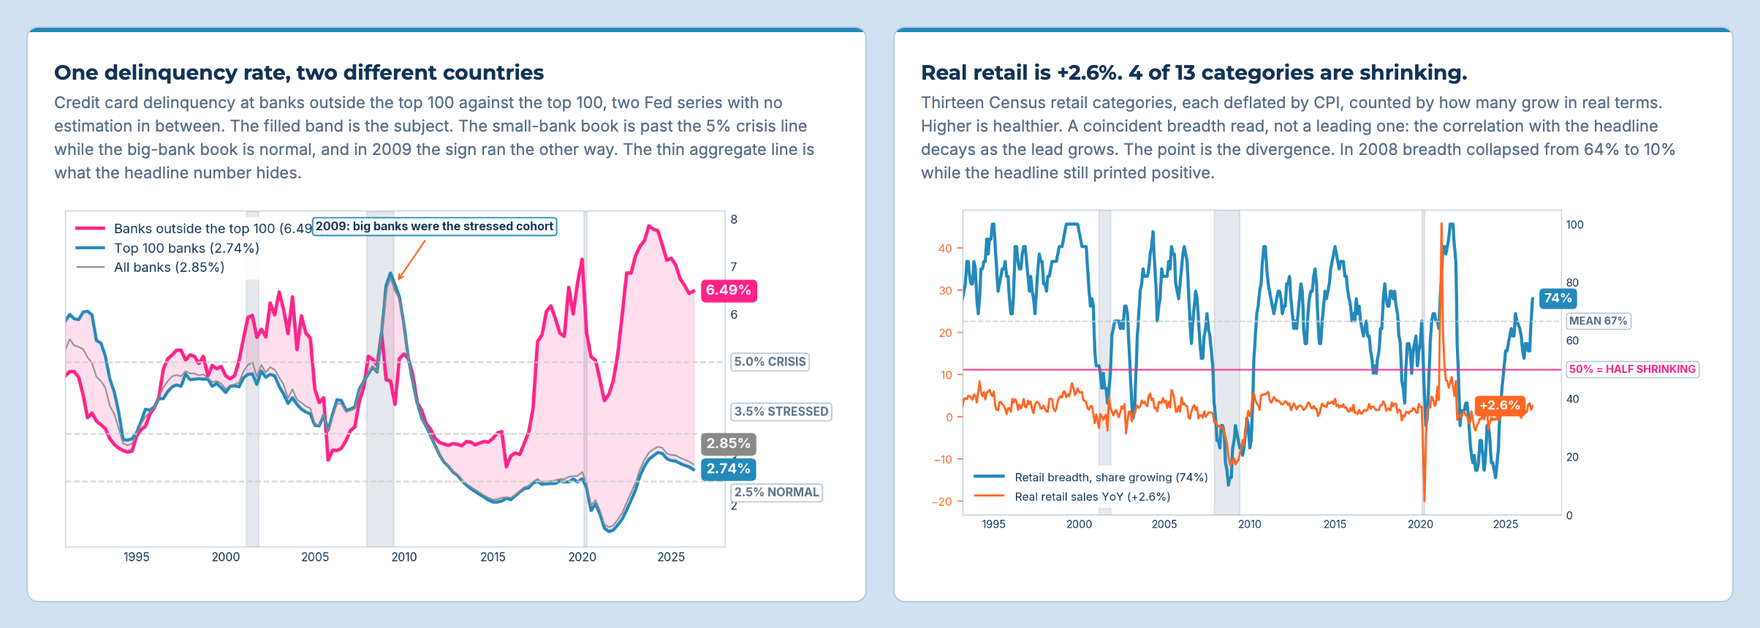
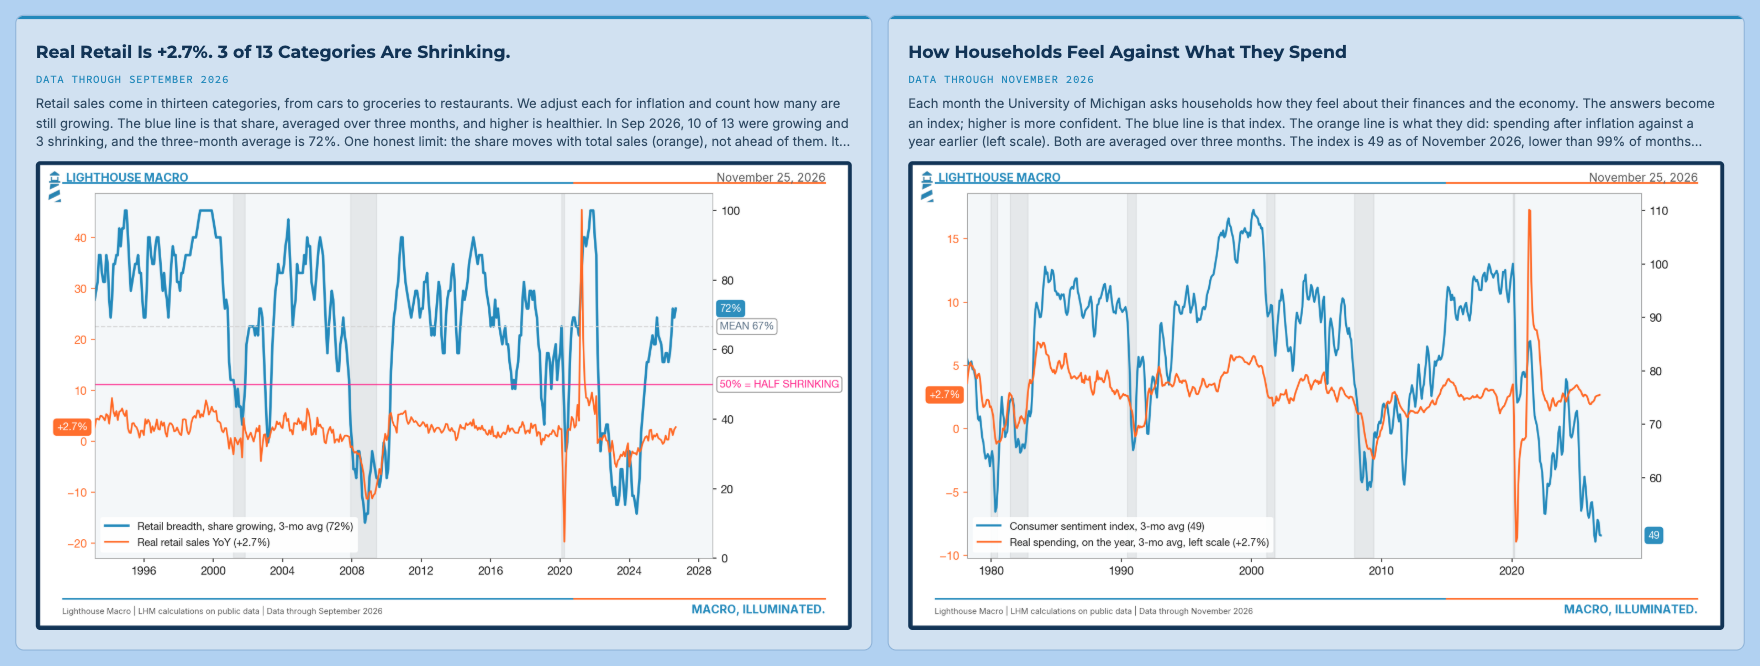
Site: Methodology back in the top menu; 12 pillars / 120+ indicators / 4,400+ data series up top on Home and Start Here; Pharos screenshots refreshed to the Nov 25 boards; title, prices (llms.txt), footer and palette fixes (Bob 11/25)
Claude-Session: https://claude.ai/code/session_01BNREp4dtPKRW1vyNJJuc1F

diff --git a/start-here.html b/start-here.html
@@ -24,7 +24,7 @@
     <script type="application/ld+json">
     {"@context":"https://schema.org","@graph":[
       {"@type":"Organization","@id":"https://lighthousemacro.com/#org","name":"Lighthouse Macro","url":"https://lighthousemacro.com","email":"advisory@lighthousemacro.com","description":"Macro and economic intelligence, built on framework and process.","slogan":"Macro, Illuminated.","logo":"https://lighthousemacro.com/assets/logo-navy-lightsky.png","sameAs":["https://x.com/LHMacro","https://research.lighthousemacro.com","https://pharos.lighthousemacro.com"],"founder":{"@id":"https://lighthousemacro.com/#bob"}},
-      {"@type":"Person","@id":"https://lighthousemacro.com/#bob","name":"Bob Sheehan","honorificSuffix":"CFA, CMT","jobTitle":"Founder & Macro Strategist","url":"https://lighthousemacro.com/#about","worksFor":{"@id":"https://lighthousemacro.com/#org"},"alumniOf":[{"@type":"Organization","name":"Bank of America Private Bank"},{"@type":"Organization","name":"Trahan Macro Research"},{"@type":"Organization","name":"Strom Capital"},{"@type":"Organization","name":"EquiLend"},{"@type":"CollegeOrUniversity","name":"Providence College"}],"hasCredential":[{"@type":"EducationalOccupationalCredential","credentialCategory":"Professional designation","name":"Chartered Financial Analyst (CFA)"},{"@type":"EducationalOccupationalCredential","credentialCategory":"Professional designation","name":"Chartered Market Technician (CMT)"}],"knowsAbout":["Macroeconomics","Business cycle analysis","Labor market flows","Inflation","Federal Reserve liquidity","Credit markets","Treasury market structure","Market breadth","Asset allocation"],"sameAs":["https://x.com/LHMacro","https://www.linkedin.com/in/boblhm","https://research.lighthousemacro.com"]},
+      {"@type":"Person","@id":"https://lighthousemacro.com/#bob","name":"Bob Sheehan","honorificSuffix":"CFA, CMT","jobTitle":"Founder, Chief Economist & Macro Strategist","url":"https://lighthousemacro.com/#about","worksFor":{"@id":"https://lighthousemacro.com/#org"},"alumniOf":[{"@type":"Organization","name":"Bank of America Private Bank"},{"@type":"Organization","name":"Trahan Macro Research"},{"@type":"Organization","name":"Strom Capital"},{"@type":"Organization","name":"EquiLend"},{"@type":"CollegeOrUniversity","name":"Providence College"}],"hasCredential":[{"@type":"EducationalOccupationalCredential","credentialCategory":"Professional designation","name":"Chartered Financial Analyst (CFA)"},{"@type":"EducationalOccupationalCredential","credentialCategory":"Professional designation","name":"Chartered Market Technician (CMT)"}],"knowsAbout":["Macroeconomics","Business cycle analysis","Labor market flows","Inflation","Federal Reserve liquidity","Credit markets","Treasury market structure","Market breadth","Asset allocation"],"sameAs":["https://x.com/LHMacro","https://www.linkedin.com/in/boblhm","https://research.lighthousemacro.com"]},
       {"@type":"WebSite","@id":"https://lighthousemacro.com/#site","url":"https://lighthousemacro.com","name":"Lighthouse Macro","publisher":{"@id":"https://lighthousemacro.com/#org"}}
     ]}
     </script>
@@ -80,19 +80,19 @@ section{padding:var(--s9) 0}
 .more{font-weight:600;color:var(--ocean);font-size:15px}.more:hover{color:var(--dusk)}
 [hidden]{display:none!important}
 /* legacy aliases so the generated Start Here page (which borrows this chrome) keeps rendering */
-:root{--line:rgba(35,137,187,.22);--ink-2:#2C3E50;--ink-3:#5B7189;--foam:#FFFFFF;--deep:#123456;--ice:#D1E1F1;--abyss:#0E2B47;--slate:#2A4A6A;--steel:#8FA8BF;--w:1180px}
+:root{--line:rgba(35,137,187,.22);--ink-2:#2C3E50;--ink-3:#5B7189;--foam:#FFFFFF;--deep:#123456;--ice:#D1E1F1;--abyss:#111823;--slate:#2A4A6A;--steel:#8FA8BF;--w:1180px}
 .accent{display:none}
 .hero .grid,.hero .glow,.dark .grid{display:none}
 
 /* ---------- nav ---------- */
 .nav{position:sticky;top:0;z-index:20;background:var(--navy)}
-.nav .wrap{display:flex;align-items:center;gap:var(--s6);height:68px}
+.nav .wrap{display:flex;align-items:center;gap:var(--s5);height:68px}
 .wm{display:flex;align-items:center;gap:12px;text-decoration:none;color:#fff;white-space:nowrap}
 .wm svg{height:34px;width:14px;color:var(--light-sky)}
 .wm span{font-family:var(--font-display);font-weight:800;font-size:18px;letter-spacing:.02em}
 .wm b{color:var(--light-sky);font-weight:800}
 .wm:hover{color:#fff}
-.nav nav{display:flex;gap:var(--s5);flex:1}
+.nav nav{display:flex;gap:var(--s4);flex:1}
 .nav nav a{color:#C9D8E6;text-decoration:none;font-size:14px;font-weight:500}.nav nav a:hover{color:#fff}
 .nav nav .btn{display:none}
 .nav .right{display:flex;align-items:center;gap:var(--s4);margin-left:auto}
@@ -100,8 +100,10 @@ section{padding:var(--s9) 0}
 .nav .btn{white-space:nowrap}
 .menu{display:none;align-items:center;gap:8px;margin-left:auto;background:transparent;border:1.5px solid rgba(137,204,255,.4);color:#fff;border-radius:var(--radius-hull);padding:8px 12px;font:600 13px var(--font-body);cursor:pointer}
 .menu svg{width:16px;height:16px;fill:none;stroke:currentColor;stroke-width:2;stroke-linecap:round}
-@media(max-width:1120px){.nav .nav-price{display:none}}
-@media(max-width:960px){
+/* seven menu links (Methodology added 11/25/2026): the inline menu fills the 1,180px row, so it folds into the Menu button below that,
+   and the header button drops its price while the inline menu shows (the hero button right below carries it) */
+@media(min-width:1181px),(max-width:1120px){.nav .nav-price{display:none}}
+@media(max-width:1180px){
   .nav .wrap{gap:var(--s4)}
   .nav nav{display:none;position:absolute;left:0;right:0;top:68px;flex-direction:column;gap:0;background:var(--navy);padding:4px var(--s6) var(--s5);border-bottom:1px solid var(--navy-line)}
   .nav.open nav{display:flex}
@@ -122,6 +124,9 @@ section{padding:var(--s9) 0}
 .hero .lead{color:#C9D8E6;margin:var(--s5) 0 var(--s6);position:relative}
 .hero .row{position:relative}
 .hero .fine{font-size:var(--fs-small);color:#8FA8BF;margin-top:var(--s5);position:relative;max-width:70ch}
+.hero .stats{position:relative;list-style:none;margin:0 0 var(--s6);padding:0;display:flex;flex-wrap:wrap;gap:var(--s3) var(--s6)}
+.hero .stats li{display:flex;align-items:baseline;gap:10px;padding-left:var(--s3);border-left:3px solid var(--dusk);font-family:var(--font-mono);font-size:12px;font-weight:500;letter-spacing:.12em;text-transform:uppercase;color:#C9D8E6;line-height:1.2}
+.hero .stats b{font-family:var(--font-display);font-size:30px;font-weight:800;letter-spacing:-.01em;color:var(--light-sky);text-transform:none}
 .hero .bar{position:absolute;left:0;right:0;bottom:0}
 
 /* ---------- press strip ---------- */
@@ -168,7 +173,7 @@ section{padding:var(--s9) 0}
 .tile .n{font-family:var(--font-mono);font-size:11px;color:#8FA8BF;letter-spacing:.1em}
 .tile .p{font-family:var(--font-display);font-weight:700;font-size:15px;color:#fff}
 .tile .s{font-family:var(--font-mono);font-size:10.5px;font-weight:600;letter-spacing:.1em;color:var(--st);text-transform:uppercase;margin-top:2px}
-.calm{--st:var(--light-sky)}.watch{--st:var(--sky)}.alert{--st:var(--dusk)}
+.calm{--st:var(--light-sky)}.watch{--st:var(--sky)}.alert{--st:var(--dusk)}.inband{--st:var(--light-sky)}.signal{--st:var(--dusk)}
 .legend{display:flex;gap:var(--s5);flex-wrap:wrap;margin-top:var(--s5);font-family:var(--font-mono);font-size:11.5px;color:#8FA8BF;align-items:center}
 .legend i{display:inline-block;width:14px;height:3px;margin-right:8px;vertical-align:middle}
 .legend a{color:var(--light-sky);margin-left:auto}.legend a:hover{color:#fff}
@@ -234,6 +239,7 @@ footer p{max-width:110ch;line-height:1.55;margin:0}
   :root{--fs-hero:42px;--fs-h2:30px}
   section{padding:var(--s8) 0}.wrap{padding:0 var(--s5)}
   .hero{padding:var(--s8) 0 calc(var(--s8) + 8px)}
+  .hero .stats{gap:var(--s3) var(--s5)}.hero .stats b{font-size:24px}.hero .stats li{font-size:11px;letter-spacing:.1em}
   .sil{height:380px;right:-6%}
   .board{padding:var(--s5)}
   .tiles{grid-template-columns:repeat(auto-fill,minmax(132px,1fr))}
@@ -244,6 +250,7 @@ footer p{max-width:110ch;line-height:1.55;margin:0}
 /* start-here: one reading column on Ice */
 .sh-hero{padding:72px 0 56px}
 .sh-hero h1{font-size:clamp(34px,5vw,54px);margin:14px 0 0}
+.sh-hero .stats{margin:24px 0 0}
 .sh{padding:56px 0 72px}
 .sh .col{max-width:760px}
 .sh p{font-size:17px;line-height:1.7;color:var(--ink);margin:0 0 20px}
@@ -268,7 +275,7 @@ footer p{max-width:110ch;line-height:1.55;margin:0}
 
 <header class="nav"><div class="wrap">
   <a class="wm" href="index.html" aria-label="Lighthouse Macro home"><svg class="mark" viewBox="590 288 416 1024" aria-hidden="true"><path d="M794 293L950 405V435H638V405Z"/><path d="M674 478H709V581H879V478H915V628H975V672H617V628H674Z"/><path d="M661 711H932L928 753L635 890Z"/><path d="M954 897L970 1051L596 1232L617 1064Z"/><path d="M989 1203L1001 1307H786Z"/></svg><span>LIGHTHOUSE <b>MACRO</b></span></a>
-  <nav id="site-nav" aria-label="Site"><a href="index.html#research">Research</a><a href="index.html#framework">Framework</a><a href="index.html#pharos">Pharos</a><a href="index.html#services">Services</a><a href="index.html#pricing">Pricing</a><a href="index.html#about">About</a><a class="signin-m" href="https://pharos.lighthousemacro.com">Sign in to Pharos</a><a class="btn btn-dusk" href="https://lighthousemacro.substack.com/subscribe?plan=yearly&amp;utm_source=lhm_site&amp;utm_medium=cta&amp;utm_campaign=research_pharos">Join the Watch · $500/yr</a></nav>
+  <nav id="site-nav" aria-label="Site"><a href="index.html#research">Research</a><a href="index.html#framework">Framework</a><a href="methodology.html">Methodology</a><a href="index.html#pharos">Pharos</a><a href="index.html#services">Services</a><a href="index.html#pricing">Pricing</a><a href="index.html#about">About</a><a class="signin-m" href="https://pharos.lighthousemacro.com">Sign in to Pharos</a><a class="btn btn-dusk" href="https://lighthousemacro.substack.com/subscribe?plan=yearly&amp;utm_source=lhm_site&amp;utm_medium=cta&amp;utm_campaign=research_pharos">Join the Watch · $500/yr</a></nav>
   <button class="menu" type="button" aria-expanded="false" aria-controls="site-nav"><svg viewBox="0 0 24 24" aria-hidden="true"><path d="M4 7h16M4 12h16M4 17h16"/></svg>Menu</button>
   <div class="right"><a class="signin" href="https://pharos.lighthousemacro.com">Sign in</a><a class="btn btn-dusk" href="https://lighthousemacro.substack.com/subscribe?plan=yearly&amp;utm_source=lhm_site&amp;utm_medium=cta&amp;utm_campaign=research_pharos">Get Research + Pharos<span class="nav-price"> · $500/yr</span></a></div>
 </div>
@@ -281,6 +288,7 @@ footer p{max-width:110ch;line-height:1.55;margin:0}
   <div class="wrap">
     <span class="eyebrow">// New here</span>
     <h1>Start Here</h1>
+    <ul class="stats" aria-label="Lighthouse Macro by the numbers"><li><b>12</b>pillars</li><li><b>120+</b>proprietary indicators</li><li><b>4,400+</b>data series</li></ul>
   </div>
 </div>
 
@@ -290,7 +298,7 @@ footer p{max-width:110ch;line-height:1.55;margin:0}
 <p>Most recently he was VP of Data &amp; Analytics at EquiLend. If you’d rather hear how we think before you read it, start with his conversation on Blockworks’ Forward Guidance, <a href="https://www.youtube.com/watch?v=OHe0A0ewJh0">How To Trade The New Warsh Fed</a>.</p>
 <p>The philosophy fits in a line: flows over stocks. How fast something is changing usually tells you more, and sooner, than where it sits. By the time a headline number moves, the story underneath it is mostly over.</p>
 <h2>The framework</h2>
-<p>Everything we publish runs through one framework, the <a href="framework.html">Diagnostic Dozen</a>: twelve pillars of the economy across three engines. Each pillar got its own free deep dive on what it measures, how it connects to the others, and the thresholds we watch.</p>
+<p>Everything we publish runs through one framework, the <a href="framework.html">Diagnostic Dozen</a>: twelve pillars of the economy across three engines. Each pillar got its own free deep dive on what it measures, how it connects to the others, and the thresholds we watch. <a href="methodology.html">How we build it →</a></p>
 <ul>
   <li><strong>Macro Dynamics: </strong><a href="https://lighthousemacro.substack.com/p/labor-the-source-code">Labor</a>, <a href="https://lighthousemacro.substack.com/p/prices-the-transmission-belt">Prices</a>, <a href="https://lighthousemacro.substack.com/p/growth-the-second-derivative">Growth</a>, <a href="https://lighthousemacro.substack.com/p/housing-the-collateral-engine">Housing</a>, <a href="https://lighthousemacro.substack.com/p/consumer-the-last-domino">Consumer</a>, <a href="https://lighthousemacro.substack.com/p/business-the-forward-commitment">Business</a>, <a href="https://lighthousemacro.substack.com/p/trade-the-pipeline">Trade</a></li>
   <li><strong>Monetary Mechanics: </strong><a href="https://lighthousemacro.substack.com/p/government-the-fiscal-overhang">Government</a>, <a href="https://lighthousemacro.substack.com/p/financial-the-cascade">Financial</a>, <a href="https://lighthousemacro.substack.com/p/plumbing-the-invisible-infrastructure">Plumbing</a></li>
@@ -313,15 +321,15 @@ footer p{max-width:110ch;line-height:1.55;margin:0}
   <li><strong>The Beacon: </strong>long-form, one thesis taken all the way down.</li>
   <li><strong>The Horizon: </strong>the forward view, and where the risk sits.</li>
   <li><strong>The Chartbook: </strong>the data, laid out to be looked at.</li>
-  <li><strong>Crosscurrents: </strong>our live book. The framework turned into positions, with the rules for getting in, sizing and getting out set before the trade.</li>
+  <li><strong>Crosscurrents: </strong>our paper book, tracked on Pharos. The framework turned into positions, with the rules for getting in, sizing and getting out set before the trade.</li>
   <li><strong><a href="https://pharos.lighthousemacro.com">Pharos</a>: </strong>the terminal. The research, the charts and the dashboards in one place.</li>
 </ul>
 <p>The framework, the history and Marginal Matters are free. The live readings, the positioning and the forward views sit with paid subscribers.</p>
 <h2>Inside Pharos</h2>
 <p><a href="https://pharos.lighthousemacro.com">Pharos</a> is the terminal the research is built on. Every board recomputes from our master database with each build, and every chart carries its own read and its sources. It comes with membership.</p>
-<figure class="sh-fig"><img src="img/start-here/pharos-header.png" alt="The Pharos Prices board header and navigation" loading="lazy"><figcaption>Inside Pharos: one board per pillar, plus rates, credit, currencies, commodities, crypto, Main Street, operators and the Crosscurrents book.</figcaption></figure>
-<figure class="sh-fig"><img src="img/start-here/pharos-prices.png" alt="Two charts from the Pharos Prices board" loading="lazy"><figcaption>From the Prices board: market rents against the CPI’s shelter legs, and households against the bond market.</figcaption></figure>
-<figure class="sh-fig"><img src="img/start-here/pharos-consumer.png" alt="Two charts from the Pharos Consumer board" loading="lazy"><figcaption>From the Consumer board: card delinquency at small banks against the top 100, and how many retail categories are actually growing.</figcaption></figure>
+<figure class="sh-fig"><img src="img/start-here/pharos-header.png?v=20261125" alt="The Pharos Prices board header and navigation" loading="lazy"><figcaption>Inside Pharos: the Prices board. Every pillar and asset class has its own board.</figcaption></figure>
+<figure class="sh-fig"><img src="img/start-here/pharos-prices.png?v=20261125" alt="Two charts from the Pharos Prices board" loading="lazy"><figcaption>From the Prices board: market rents against the rent measures inside the CPI, and pump prices against energy inflation.</figcaption></figure>
+<figure class="sh-fig"><img src="img/start-here/pharos-consumer.png?v=20261125" alt="Two charts from the Pharos Consumer board" loading="lazy"><figcaption>From the Consumer board: how many retail categories are actually growing, and how households feel against what they spend.</figcaption></figure>
 <p class="sh-cta"><a class="btn btn-primary" href="index.html#pricing">Join the Watch</a><a class="btn btn-line" href="https://pharos.lighthousemacro.com">Sign in to Pharos</a></p>
 <p>For decks, monthly/quarterly meetings, or advisory work, write to <a href="mailto:advisory@lighthousemacro.com">advisory@lighthousemacro.com</a>.</p>
 <p>For custom research requests or institutional settings, write to <a href="mailto:research@lighthousemacro.com">research@lighthousemacro.com</a>.</p>

diff --git a/index.html b/index.html
@@ -24,7 +24,7 @@
     <script type="application/ld+json">
     {"@context":"https://schema.org","@graph":[
       {"@type":"Organization","@id":"https://lighthousemacro.com/#org","name":"Lighthouse Macro","url":"https://lighthousemacro.com","email":"advisory@lighthousemacro.com","description":"Macro and economic intelligence, built on framework and process.","slogan":"Macro, Illuminated.","logo":"https://lighthousemacro.com/assets/logo-navy-lightsky.png","sameAs":["https://x.com/LHMacro","https://research.lighthousemacro.com","https://pharos.lighthousemacro.com"],"founder":{"@id":"https://lighthousemacro.com/#bob"}},
-      {"@type":"Person","@id":"https://lighthousemacro.com/#bob","name":"Bob Sheehan","honorificSuffix":"CFA, CMT","jobTitle":"Founder & Macro Strategist","url":"https://lighthousemacro.com/#about","worksFor":{"@id":"https://lighthousemacro.com/#org"},"alumniOf":[{"@type":"Organization","name":"Bank of America Private Bank"},{"@type":"Organization","name":"Trahan Macro Research"},{"@type":"Organization","name":"Strom Capital"},{"@type":"Organization","name":"EquiLend"},{"@type":"CollegeOrUniversity","name":"Providence College"}],"hasCredential":[{"@type":"EducationalOccupationalCredential","credentialCategory":"Professional designation","name":"Chartered Financial Analyst (CFA)"},{"@type":"EducationalOccupationalCredential","credentialCategory":"Professional designation","name":"Chartered Market Technician (CMT)"}],"knowsAbout":["Macroeconomics","Business cycle analysis","Labor market flows","Inflation","Federal Reserve liquidity","Credit markets","Treasury market structure","Market breadth","Asset allocation"],"sameAs":["https://x.com/LHMacro","https://www.linkedin.com/in/boblhm","https://research.lighthousemacro.com"]},
+      {"@type":"Person","@id":"https://lighthousemacro.com/#bob","name":"Bob Sheehan","honorificSuffix":"CFA, CMT","jobTitle":"Founder, Chief Economist & Macro Strategist","url":"https://lighthousemacro.com/#about","worksFor":{"@id":"https://lighthousemacro.com/#org"},"alumniOf":[{"@type":"Organization","name":"Bank of America Private Bank"},{"@type":"Organization","name":"Trahan Macro Research"},{"@type":"Organization","name":"Strom Capital"},{"@type":"Organization","name":"EquiLend"},{"@type":"CollegeOrUniversity","name":"Providence College"}],"hasCredential":[{"@type":"EducationalOccupationalCredential","credentialCategory":"Professional designation","name":"Chartered Financial Analyst (CFA)"},{"@type":"EducationalOccupationalCredential","credentialCategory":"Professional designation","name":"Chartered Market Technician (CMT)"}],"knowsAbout":["Macroeconomics","Business cycle analysis","Labor market flows","Inflation","Federal Reserve liquidity","Credit markets","Treasury market structure","Market breadth","Asset allocation"],"sameAs":["https://x.com/LHMacro","https://www.linkedin.com/in/boblhm","https://research.lighthousemacro.com"]},
       {"@type":"WebSite","@id":"https://lighthousemacro.com/#site","url":"https://lighthousemacro.com","name":"Lighthouse Macro","publisher":{"@id":"https://lighthousemacro.com/#org"}}
     ]}
     </script>
@@ -80,19 +80,19 @@ section{padding:var(--s9) 0}
 .more{font-weight:600;color:var(--ocean);font-size:15px}.more:hover{color:var(--dusk)}
 [hidden]{display:none!important}
 /* legacy aliases so the generated Start Here page (which borrows this chrome) keeps rendering */
-:root{--line:rgba(35,137,187,.22);--ink-2:#2C3E50;--ink-3:#5B7189;--foam:#FFFFFF;--deep:#123456;--ice:#D1E1F1;--abyss:#0E2B47;--slate:#2A4A6A;--steel:#8FA8BF;--w:1180px}
+:root{--line:rgba(35,137,187,.22);--ink-2:#2C3E50;--ink-3:#5B7189;--foam:#FFFFFF;--deep:#123456;--ice:#D1E1F1;--abyss:#111823;--slate:#2A4A6A;--steel:#8FA8BF;--w:1180px}
 .accent{display:none}
 .hero .grid,.hero .glow,.dark .grid{display:none}
 
 /* ---------- nav ---------- */
 .nav{position:sticky;top:0;z-index:20;background:var(--navy)}
-.nav .wrap{display:flex;align-items:center;gap:var(--s6);height:68px}
+.nav .wrap{display:flex;align-items:center;gap:var(--s5);height:68px}
 .wm{display:flex;align-items:center;gap:12px;text-decoration:none;color:#fff;white-space:nowrap}
 .wm svg{height:34px;width:14px;color:var(--light-sky)}
 .wm span{font-family:var(--font-display);font-weight:800;font-size:18px;letter-spacing:.02em}
 .wm b{color:var(--light-sky);font-weight:800}
 .wm:hover{color:#fff}
-.nav nav{display:flex;gap:var(--s5);flex:1}
+.nav nav{display:flex;gap:var(--s4);flex:1}
 .nav nav a{color:#C9D8E6;text-decoration:none;font-size:14px;font-weight:500}.nav nav a:hover{color:#fff}
 .nav nav .btn{display:none}
 .nav .right{display:flex;align-items:center;gap:var(--s4);margin-left:auto}
@@ -100,8 +100,10 @@ section{padding:var(--s9) 0}
 .nav .btn{white-space:nowrap}
 .menu{display:none;align-items:center;gap:8px;margin-left:auto;background:transparent;border:1.5px solid rgba(137,204,255,.4);color:#fff;border-radius:var(--radius-hull);padding:8px 12px;font:600 13px var(--font-body);cursor:pointer}
 .menu svg{width:16px;height:16px;fill:none;stroke:currentColor;stroke-width:2;stroke-linecap:round}
-@media(max-width:1120px){.nav .nav-price{display:none}}
-@media(max-width:960px){
+/* seven menu links (Methodology added 11/25/2026): the inline menu fills the 1,180px row, so it folds into the Menu button below that,
+   and the header button drops its price while the inline menu shows (the hero button right below carries it) */
+@media(min-width:1181px),(max-width:1120px){.nav .nav-price{display:none}}
+@media(max-width:1180px){
   .nav .wrap{gap:var(--s4)}
   .nav nav{display:none;position:absolute;left:0;right:0;top:68px;flex-direction:column;gap:0;background:var(--navy);padding:4px var(--s6) var(--s5);border-bottom:1px solid var(--navy-line)}
   .nav.open nav{display:flex}
@@ -122,6 +124,9 @@ section{padding:var(--s9) 0}
 .hero .lead{color:#C9D8E6;margin:var(--s5) 0 var(--s6);position:relative}
 .hero .row{position:relative}
 .hero .fine{font-size:var(--fs-small);color:#8FA8BF;margin-top:var(--s5);position:relative;max-width:70ch}
+.hero .stats{position:relative;list-style:none;margin:0 0 var(--s6);padding:0;display:flex;flex-wrap:wrap;gap:var(--s3) var(--s6)}
+.hero .stats li{display:flex;align-items:baseline;gap:10px;padding-left:var(--s3);border-left:3px solid var(--dusk);font-family:var(--font-mono);font-size:12px;font-weight:500;letter-spacing:.12em;text-transform:uppercase;color:#C9D8E6;line-height:1.2}
+.hero .stats b{font-family:var(--font-display);font-size:30px;font-weight:800;letter-spacing:-.01em;color:var(--light-sky);text-transform:none}
 .hero .bar{position:absolute;left:0;right:0;bottom:0}
 
 /* ---------- press strip ---------- */
@@ -234,6 +239,7 @@ footer p{max-width:110ch;line-height:1.55;margin:0}
   :root{--fs-hero:42px;--fs-h2:30px}
   section{padding:var(--s8) 0}.wrap{padding:0 var(--s5)}
   .hero{padding:var(--s8) 0 calc(var(--s8) + 8px)}
+  .hero .stats{gap:var(--s3) var(--s5)}.hero .stats b{font-size:24px}.hero .stats li{font-size:11px;letter-spacing:.1em}
   .sil{height:380px;right:-6%}
   .board{padding:var(--s5)}
   .tiles{grid-template-columns:repeat(auto-fill,minmax(132px,1fr))}
@@ -247,7 +253,7 @@ footer p{max-width:110ch;line-height:1.55;margin:0}
 
 <header class="nav"><div class="wrap">
   <a class="wm" href="#top" aria-label="Lighthouse Macro home"><svg class="mark" viewBox="590 288 416 1024" aria-hidden="true"><path d="M794 293L950 405V435H638V405Z"/><path d="M674 478H709V581H879V478H915V628H975V672H617V628H674Z"/><path d="M661 711H932L928 753L635 890Z"/><path d="M954 897L970 1051L596 1232L617 1064Z"/><path d="M989 1203L1001 1307H786Z"/></svg><span>LIGHTHOUSE <b>MACRO</b></span></a>
-  <nav id="site-nav" aria-label="Site"><a href="#research">Research</a><a href="#framework">Framework</a><a href="#pharos">Pharos</a><a href="#services">Services</a><a href="#pricing">Pricing</a><a href="#about">About</a><a class="signin-m" href="https://pharos.lighthousemacro.com">Sign in to Pharos</a><a class="btn btn-dusk" href="https://lighthousemacro.substack.com/subscribe?plan=yearly&amp;utm_source=lhm_site&amp;utm_medium=cta&amp;utm_campaign=research_pharos">Join the Watch · $500/yr</a></nav>
+  <nav id="site-nav" aria-label="Site"><a href="#research">Research</a><a href="#framework">Framework</a><a href="methodology.html">Methodology</a><a href="#pharos">Pharos</a><a href="#services">Services</a><a href="#pricing">Pricing</a><a href="#about">About</a><a class="signin-m" href="https://pharos.lighthousemacro.com">Sign in to Pharos</a><a class="btn btn-dusk" href="https://lighthousemacro.substack.com/subscribe?plan=yearly&amp;utm_source=lhm_site&amp;utm_medium=cta&amp;utm_campaign=research_pharos">Join the Watch · $500/yr</a></nav>
   <button class="menu" type="button" aria-expanded="false" aria-controls="site-nav"><svg viewBox="0 0 24 24" aria-hidden="true"><path d="M4 7h16M4 12h16M4 17h16"/></svg>Menu</button>
   <div class="right"><a class="signin" href="https://pharos.lighthousemacro.com">Sign in</a><a class="btn btn-dusk" href="https://lighthousemacro.substack.com/subscribe?plan=yearly&amp;utm_source=lhm_site&amp;utm_medium=cta&amp;utm_campaign=research_pharos">Get Research + Pharos<span class="nav-price"> · $500/yr</span></a></div>
 </div>
@@ -260,6 +266,7 @@ footer p{max-width:110ch;line-height:1.55;margin:0}
     <div class="eyebrow">// Lighthouse Macro</div>
     <h1>The data lights the way. We follow. This is <span class="m">Macro,</span> <span class="i">Illuminated.</span></h1>
     <p class="lead">Macro and economic intelligence, built on framework and process, with the intellectual honesty the sell-side has forgotten.</p>
+    <ul class="stats" aria-label="Lighthouse Macro by the numbers"><li><b>12</b>pillars</li><li><b>120+</b>proprietary indicators</li><li><b>4,400+</b>data series</li></ul>
     <div class="row"><a class="btn btn-dusk" href="https://lighthousemacro.substack.com/subscribe?plan=yearly&amp;utm_source=lhm_site&amp;utm_medium=cta&amp;utm_campaign=research_pharos">Join the Watch · $500/yr</a><a class="btn btn-ghost" href="#pricing">See plans</a><a class="btn btn-ghost" href="https://pharos.lighthousemacro.com">Enter Pharos</a></div>
     <p class="fine">The Watch, research plus Pharos, is $500 a year (about $42 a month), or $50 month-to-month. The Diagnostic Dozen and the free Notes stay open to everyone.</p>
   </div>
@@ -276,7 +283,7 @@ footer p{max-width:110ch;line-height:1.55;margin:0}
 
 <section id="research">
   <div class="wrap">
-    <div class="shead"><div><div class="eyebrow">// Latest research</div><h2>What we published this week</h2></div><a class="more" href="https://lighthousemacro.substack.com/p/start-here/">Read on Substack →</a></div>
+    <div class="shead"><div><div class="eyebrow">// Latest research</div><h2>Recent research</h2></div><a class="more" href="https://lighthousemacro.substack.com/p/start-here/">Read on Substack →</a></div>
     <div class="grid g3">
     
     
@@ -372,7 +379,7 @@ footer p{max-width:110ch;line-height:1.55;margin:0}
       <ul><li>Every live board across the twelve pillars and six asset classes</li><li>120+ proprietary indicators with published thresholds</li><li>The regime call and the House View allocation stance</li><li>Recession probability and the nowcasts</li><li>The research archive, inside the terminal</li></ul>
       <div class="row"><a class="btn btn-dusk" href="https://lighthousemacro.substack.com/subscribe?plan=yearly&amp;utm_source=lhm_site&amp;utm_medium=cta&amp;utm_campaign=research_pharos">Join the Watch · $500/yr</a><a class="btn btn-ghost" href="https://pharos.lighthousemacro.com">Sign in to Pharos</a></div>
     </div>
-    <figure class="shot"><img src="/img/start-here/pharos-header.png" alt="Pharos: the board navigation across the twelve pillars, Crosscurrents, the risk desk and the asset boards" loading="lazy"><img src="/img/start-here/pharos-prices.png" alt="Pharos: two chart cards from the Prices board, shelter versus CPI rent and household inflation expectations against the bond market" loading="lazy"><figcaption>Pharos · The Prices board</figcaption></figure>
+    <figure class="shot"><img src="/img/start-here/pharos-header.png?v=20261125" alt="Pharos: the Prices board header, with the board menu and the pager to the Labor and Growth boards" loading="lazy"><img src="/img/start-here/pharos-prices.png?v=20261125" alt="Pharos: two chart cards from the Prices board, market rents against CPI rent and owners' equivalent rent, and pump prices against CPI energy" loading="lazy"><figcaption>Pharos · The Prices board</figcaption></figure>
   </div>
 </section>
 
@@ -422,7 +429,7 @@ footer p{max-width:110ch;line-height:1.55;margin:0}
     <div>
       <div class="eyebrow">// The author</div>
       <h2>Bob Sheehan, CFA, CMT</h2>
-      <p style="font-weight:600;color:var(--navy);">Founder &amp; Macro Strategist. Macro and economic intelligence for markets and operators.</p>
+      <p style="font-weight:600;color:var(--navy);">Founder, Chief Economist &amp; Macro Strategist. Macro and economic intelligence for markets and operators.</p>
       <p>"The Lighthouse" was the name of Bob's house in college, where he first began studying finance and economics. Over the years it evolved into a research firm built on quantitative rigor and systematic macro analysis, serving portfolio managers, advisory firms, and business leaders who need to understand what is actually happening beneath the headlines.</p>
       <p>Bob's neurodivergent wiring is core to the firm's edge. Most analysts specialize in one domain. His ADHD-driven intellectual restlessness pushes him across the full macro landscape, from Fed plumbing to labor economics to credit markets to Treasury microstructure to crypto integration and quantitative modeling. The result is depth across domains. And with it, the ability to see connections specialists miss by staying in silos.</p>
       <div class="motto">The machine builds the map. The judgment makes the call.</div>

diff --git a/framework.html b/framework.html
@@ -12,7 +12,7 @@
     <meta property="og:type" content="website">
     <link rel="canonical" href="https://lighthousemacro.com/framework.html">
     <script type="application/ld+json">
-    {"@context":"https://schema.org","@graph":[{"@type":"Organization","@id":"https://lighthousemacro.com/#org","name":"Lighthouse Macro","url":"https://lighthousemacro.com"},{"@type":"Person","@id":"https://lighthousemacro.com/#bob","name":"Bob Sheehan","honorificSuffix":"CFA, CMT","jobTitle":"Founder & Macro Strategist","worksFor":{"@id":"https://lighthousemacro.com/#org"}},{"@type":"BreadcrumbList","itemListElement":[{"@type":"ListItem","position":1,"name":"Lighthouse Macro","item":"https://lighthousemacro.com/"},{"@type":"ListItem","position":2,"name":"The Diagnostic Dozen","item":"https://lighthousemacro.com/framework.html"}]},{"@type":"CollectionPage","@id":"https://lighthousemacro.com/framework.html#page","url":"https://lighthousemacro.com/framework.html","name":"The Diagnostic Dozen","description":"Our 12-pillar macro framework organized into three engines: Macro Dynamics, Monetary Mechanics, and Market Structure. The systematic approach behind our research and advisory.","isPartOf":{"@id":"https://lighthousemacro.com/#site"},"author":{"@id":"https://lighthousemacro.com/#bob"},"publisher":{"@id":"https://lighthousemacro.com/#org"},"isAccessibleForFree":true,"about":["Macroeconomics","Business cycle","Macro Dynamics","Monetary Mechanics","Market Structure"],"mainEntity":{"@type":"ItemList","name":"The twelve pillars of the Diagnostic Dozen","numberOfItems":12,"itemListElement":[{"@type":"ListItem","position":1,"name":"Labor: The Source Code","description":"Pillar 1 of 12, in the Macro Dynamics engine.","url":"https://lighthousemacro.com/research/labor-the-source-code.html"},{"@type":"ListItem","position":2,"name":"Prices: The Transmission Belt","description":"Pillar 2 of 12, in the Macro Dynamics engine.","url":"https://lighthousemacro.com/research/prices-the-transmission-belt.html"},{"@type":"ListItem","position":3,"name":"Growth: The Second Derivative","description":"Pillar 3 of 12, in the Macro Dynamics engine.","url":"https://lighthousemacro.com/research/growth-the-second-derivative.html"},{"@type":"ListItem","position":4,"name":"Housing: The Collateral Engine","description":"Pillar 4 of 12, in the Macro Dynamics engine.","url":"https://lighthousemacro.com/research/housing-the-collateral-engine.html"},{"@type":"ListItem","position":5,"name":"Consumer: The Last Domino","description":"Pillar 5 of 12, in the Macro Dynamics engine.","url":"https://lighthousemacro.com/research/consumer-the-last-domino.html"},{"@type":"ListItem","position":6,"name":"Business: The Forward Commitment","description":"Pillar 6 of 12, in the Macro Dynamics engine.","url":"https://lighthousemacro.com/research/business-the-forward-commitment.html"},{"@type":"ListItem","position":7,"name":"Trade: The Pipeline","description":"Pillar 7 of 12, in the Macro Dynamics engine.","url":"https://lighthousemacro.com/research/trade-the-pipeline.html"},{"@type":"ListItem","position":8,"name":"Government: The Fiscal Overhang","description":"Pillar 8 of 12, in the Monetary Mechanics engine.","url":"https://lighthousemacro.com/research/government-the-fiscal-overhang.html"},{"@type":"ListItem","position":9,"name":"Financial: The Cascade","description":"Pillar 9 of 12, in the Monetary Mechanics engine.","url":"https://lighthousemacro.com/research/financial-the-cascade.html"},{"@type":"ListItem","position":10,"name":"Plumbing: The Invisible Infrastructure","description":"Pillar 10 of 12, in the Monetary Mechanics engine.","url":"https://lighthousemacro.com/research/plumbing-the-invisible-infrastructure.html"},{"@type":"ListItem","position":11,"name":"Market Structure: The Weight of Evidence","description":"Pillar 11 of 12, in the Market Structure engine.","url":"https://lighthousemacro.com/research/market-structure-the-weight-of-evidence.html"},{"@type":"ListItem","position":12,"name":"Sentiment & Positioning: The Contrarian Edge","description":"Pillar 12 of 12, in the Market Structure engine.","url":"https://lighthousemacro.com/research/sentiment-and-positioning-the-contrarian-216.html"}]}}]}
+    {"@context":"https://schema.org","@graph":[{"@type":"Organization","@id":"https://lighthousemacro.com/#org","name":"Lighthouse Macro","url":"https://lighthousemacro.com"},{"@type":"Person","@id":"https://lighthousemacro.com/#bob","name":"Bob Sheehan","honorificSuffix":"CFA, CMT","jobTitle":"Founder, Chief Economist & Macro Strategist","worksFor":{"@id":"https://lighthousemacro.com/#org"}},{"@type":"BreadcrumbList","itemListElement":[{"@type":"ListItem","position":1,"name":"Lighthouse Macro","item":"https://lighthousemacro.com/"},{"@type":"ListItem","position":2,"name":"The Diagnostic Dozen","item":"https://lighthousemacro.com/framework.html"}]},{"@type":"CollectionPage","@id":"https://lighthousemacro.com/framework.html#page","url":"https://lighthousemacro.com/framework.html","name":"The Diagnostic Dozen","description":"Our 12-pillar macro framework organized into three engines: Macro Dynamics, Monetary Mechanics, and Market Structure. The systematic approach behind our research and advisory.","isPartOf":{"@id":"https://lighthousemacro.com/#site"},"author":{"@id":"https://lighthousemacro.com/#bob"},"publisher":{"@id":"https://lighthousemacro.com/#org"},"isAccessibleForFree":true,"about":["Macroeconomics","Business cycle","Macro Dynamics","Monetary Mechanics","Market Structure"],"mainEntity":{"@type":"ItemList","name":"The twelve pillars of the Diagnostic Dozen","numberOfItems":12,"itemListElement":[{"@type":"ListItem","position":1,"name":"Labor: The Source Code","description":"Pillar 1 of 12, in the Macro Dynamics engine.","url":"https://lighthousemacro.com/research/labor-the-source-code.html"},{"@type":"ListItem","position":2,"name":"Prices: The Transmission Belt","description":"Pillar 2 of 12, in the Macro Dynamics engine.","url":"https://lighthousemacro.com/research/prices-the-transmission-belt.html"},{"@type":"ListItem","position":3,"name":"Growth: The Second Derivative","description":"Pillar 3 of 12, in the Macro Dynamics engine.","url":"https://lighthousemacro.com/research/growth-the-second-derivative.html"},{"@type":"ListItem","position":4,"name":"Housing: The Collateral Engine","description":"Pillar 4 of 12, in the Macro Dynamics engine.","url":"https://lighthousemacro.com/research/housing-the-collateral-engine.html"},{"@type":"ListItem","position":5,"name":"Consumer: The Last Domino","description":"Pillar 5 of 12, in the Macro Dynamics engine.","url":"https://lighthousemacro.com/research/consumer-the-last-domino.html"},{"@type":"ListItem","position":6,"name":"Business: The Forward Commitment","description":"Pillar 6 of 12, in the Macro Dynamics engine.","url":"https://lighthousemacro.com/research/business-the-forward-commitment.html"},{"@type":"ListItem","position":7,"name":"Trade: The Pipeline","description":"Pillar 7 of 12, in the Macro Dynamics engine.","url":"https://lighthousemacro.com/research/trade-the-pipeline.html"},{"@type":"ListItem","position":8,"name":"Government: The Fiscal Overhang","description":"Pillar 8 of 12, in the Monetary Mechanics engine.","url":"https://lighthousemacro.com/research/government-the-fiscal-overhang.html"},{"@type":"ListItem","position":9,"name":"Financial: The Cascade","description":"Pillar 9 of 12, in the Monetary Mechanics engine.","url":"https://lighthousemacro.com/research/financial-the-cascade.html"},{"@type":"ListItem","position":10,"name":"Plumbing: The Invisible Infrastructure","description":"Pillar 10 of 12, in the Monetary Mechanics engine.","url":"https://lighthousemacro.com/research/plumbing-the-invisible-infrastructure.html"},{"@type":"ListItem","position":11,"name":"Market Structure: The Weight of Evidence","description":"Pillar 11 of 12, in the Market Structure engine.","url":"https://lighthousemacro.com/research/market-structure-the-weight-of-evidence.html"},{"@type":"ListItem","position":12,"name":"Sentiment & Positioning: The Contrarian Edge","description":"Pillar 12 of 12, in the Market Structure engine.","url":"https://lighthousemacro.com/research/sentiment-and-positioning-the-contrarian-216.html"}]}}]}
     </script>
     <meta name="twitter:card" content="summary_large_image">
     <meta name="twitter:site" content="@LHMacro">
@@ -652,6 +652,7 @@ footer { background:var(--abyss); }
             <div class="lhm-sig">
                 <a href="https://lighthousemacro.com">Lighthouse Macro</a> |
                 <a href="https://research.lighthousemacro.com">Research</a> |
+                <a href="https://pharos.lighthousemacro.com">Pharos</a> |
                 <a href="https://x.com/LHMacro">@LHMacro</a>
             </div>
             <div class="mono" style="color:var(--doldrums);">&copy; 2026 Lighthouse Macro, LLC</div>

diff --git a/methodology.html b/methodology.html
@@ -12,7 +12,7 @@
     <meta property="og:type" content="website">
     <link rel="canonical" href="https://lighthousemacro.com/methodology.html">
     <script type="application/ld+json">
-    {"@context":"https://schema.org","@graph":[{"@type":"Organization","@id":"https://lighthousemacro.com/#org","name":"Lighthouse Macro","url":"https://lighthousemacro.com"},{"@type":"Person","@id":"https://lighthousemacro.com/#bob","name":"Bob Sheehan","honorificSuffix":"CFA, CMT","jobTitle":"Founder & Macro Strategist","worksFor":{"@id":"https://lighthousemacro.com/#org"}},{"@type":"BreadcrumbList","itemListElement":[{"@type":"ListItem","position":1,"name":"Lighthouse Macro","item":"https://lighthousemacro.com/"},{"@type":"ListItem","position":2,"name":"Methodology","item":"https://lighthousemacro.com/methodology.html"}]},{"@type":"WebPage","@id":"https://lighthousemacro.com/methodology.html#page","url":"https://lighthousemacro.com/methodology.html","name":"Methodology","description":"How we think about markets, risk, and positioning. Our philosophy, process, and the principles that guide Lighthouse Macro's research and advisory.","isPartOf":{"@id":"https://lighthousemacro.com/#site"},"author":{"@id":"https://lighthousemacro.com/#bob"},"publisher":{"@id":"https://lighthousemacro.com/#org"},"isAccessibleForFree":true,"about":["Macro research methodology","Regime classification","Recession probability","Position sizing","Risk management"]}]}
+    {"@context":"https://schema.org","@graph":[{"@type":"Organization","@id":"https://lighthousemacro.com/#org","name":"Lighthouse Macro","url":"https://lighthousemacro.com"},{"@type":"Person","@id":"https://lighthousemacro.com/#bob","name":"Bob Sheehan","honorificSuffix":"CFA, CMT","jobTitle":"Founder, Chief Economist & Macro Strategist","worksFor":{"@id":"https://lighthousemacro.com/#org"}},{"@type":"BreadcrumbList","itemListElement":[{"@type":"ListItem","position":1,"name":"Lighthouse Macro","item":"https://lighthousemacro.com/"},{"@type":"ListItem","position":2,"name":"Methodology","item":"https://lighthousemacro.com/methodology.html"}]},{"@type":"WebPage","@id":"https://lighthousemacro.com/methodology.html#page","url":"https://lighthousemacro.com/methodology.html","name":"Methodology","description":"How we think about markets, risk, and positioning. Our philosophy, process, and the principles that guide Lighthouse Macro's research and advisory.","isPartOf":{"@id":"https://lighthousemacro.com/#site"},"author":{"@id":"https://lighthousemacro.com/#bob"},"publisher":{"@id":"https://lighthousemacro.com/#org"},"isAccessibleForFree":true,"about":["Macro research methodology","Regime classification","Recession probability","Position sizing","Risk management"]}]}
     </script>
     <meta name="twitter:card" content="summary_large_image">
     <meta name="twitter:site" content="@LHMacro">
@@ -727,6 +727,7 @@ footer { background:var(--abyss); }
             <div class="lhm-sig">
                 <a href="https://lighthousemacro.com">Lighthouse Macro</a> |
                 <a href="https://research.lighthousemacro.com">Research</a> |
+                <a href="https://pharos.lighthousemacro.com">Pharos</a> |
                 <a href="https://x.com/LHMacro">@LHMacro</a>
             </div>
             <div class="mono" style="color:var(--doldrums);">&copy; 2026 Lighthouse Macro, LLC</div>

diff --git a/assets/tokens.css b/assets/tokens.css
@@ -1,5 +1,5 @@
 /* Lighthouse Macro site tokens. Source: design handoff Oct 2026 (Outputs/design_system_2026-10-28_claude_design). Values are the handoff values, verbatim.
-   Palette note for Bob: --sky #23BBFF and --ink #0A1628 are the handoff names; the June 2026 locked palette has Sky #89CCFF (here --light-sky) and Deep #123456. */
+   Palette note: the handoff's retired --sky #23BBFF and --ink #0A1628 were set to the locked palette on 11/25/2026 (Sky #89CCFF, Deep #123456). */
 /* Lighthouse Macro — site tokens (Oct 2026)
    Drop into the site's global stylesheet. All values are final. */
 @import url("https://fonts.googleapis.com/css2?family=Montserrat:wght@600;700;800&family=Inter:ital,wght@0,400;0,500;0,600;0,700;1,400&family=Source+Code+Pro:wght@400;500;600&family=IBM+Plex+Serif:ital,wght@1,400&display=swap");
@@ -8,13 +8,13 @@
   /* Brand */
   --navy:#123456;        /* brand ground: nav, hero, Pharos band, footer */
   --ocean:#2389BB;       /* primary: links, borders, headings on light, chart primary */
-  --sky:#23BBFF;         /* secondary accent, 3rd chart line */
+  --sky:#89CCFF;         /* Sky: secondary accent, 3rd chart line (same value as --light-sky) */
   --light-sky:#89CCFF;   /* mark + "MACRO" on Navy, soft washes */
   --dusk:#FF6723;        /* action: CTAs, "Illuminated.", last-value pills, alert status */
   /* Data-vis only */
   --sea:#00BB89; --venus:#FF2389; --starboard:#238923; --port:#892323;
   /* Neutrals */
-  --ink:#0A1628; --doldrums:#898989; --fog:#D1D1D1; --glacier:#F4F7F9; --white:#FFFFFF;
+  --ink:#123456; --doldrums:#898989; --fog:#D1D1D1; --glacier:#F4F7F9; --white:#FFFFFF;
   --navy-2:#0E2B47;      /* footer / deeper navy panel */
   --navy-line:rgba(137,204,255,.18);
 
